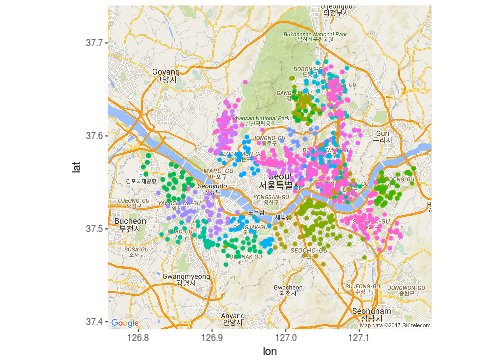
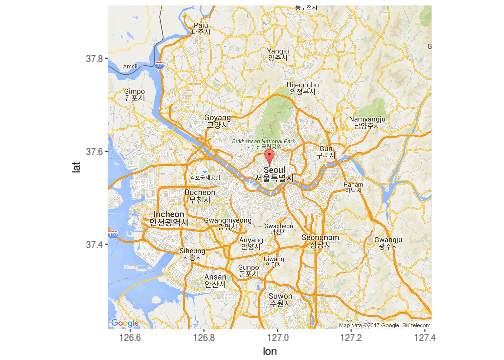
과제 끝
그림 넣어 줘야 함.

diff --git a/notegen/class6.html b/notegen/class6.html
@@ -23,18 +23,21 @@ class: center, middle, inverse, title-slide
 목차
 
 1. 과제 확인
-    - kmeans
-    - 회귀분석
-    - 연관분석
-    
+
 1. ggplot2
-    - + 연산자
     - 그림을 그리는 구조
-    - 요소별 
-        - geom
-        - 
-        
+    - gapminder
+    - layer 다루기
+    - 저장하기
+    - 실습
+
+1. 한국 지도 그리기
+    - 좌표계와 지도 데이터
+    - ggmap으로 배경 받기
+    - kormap으로 shp 데이터 경험하기
+
 1. ggplot2+extra
+1. 과제
 ---
 
 ## 과제 확인
@@ -381,7 +384,7 @@ p_point + geom_smooth(lwd = 2, se = FALSE, method = "lm")
 ![](class6_files/figure-html/unnamed-chunk-17-1.png)&lt;!-- --&gt;
 ]
 ---
-## 색정보를 전체에 반형하기
+## 색정보를 전체에 반영하기
 
 layer를 추가할 때 작성한 mapping 정보는 이후에 더해지는 layer에는 반영되지 않습니다. 그렇기 때문에 공통으로 사용하는 mapping 정보는 최초 `ggplot` 객체 생성시 `aes()` 함수로 반영해야 합니다.
 
@@ -543,7 +546,36 @@ class: center, middle
 
 [ggmap](https://www.nceas.ucsb.edu/~frazier/RSpatialGuides/ggmap/ggmapCheatsheet.pdf)은 구글 지도를 배경으로 ggplot을 사용할 수 있게 해주는 패키지로 내부적으로 모두 ggplot의 함수를 사용해서 문법이 호환됩니다.
 
+![](class6_files/figure-html/unnamed-chunk-27-1.png)&lt;!-- --&gt;
+
+---
+
+## geocoding
+
+[geocoding](http://lumiamitie.github.io/r/geocoding-with-r/) 이란 글자로 이루어져있는 주소를 위경도로 바꾸는 것을 뜻합니다. 반대로 반대로 위경도로 구성된 위치정보를 그 위치의 대표값(주소, 건물 이름 등)으로 바꾸는 것도 가능합니다.
+
+`ggmap`은 `geocode()` 함수를 제공하고 있습니다.
+
+
+
+--
+
+```
+geocode(location, output = "latlon", source = "google")
+```
+
+- location : 주소나 건물 이름에 해당하는 변환하고자 하는 값입니다.
+- output  : "latlon", "latlona", "more", "all"의 4가지 옵션이 있으며 뒤로 갈수록 정보가 상세합니다.
+- source : 구글의 공개된 API를 사용한다는 뜻으로 대량으로 사용하기 위해서는 api-key를 등록해야 하거나 돈을 지불해야 할 수 있습니다.
+
+---
+
+## ggmap으로 ggplot 객체로 만들기
+
 .pull-left[
+
+`get_googlemap()` 함수는 google 지도를 `ggmap 객체`로 가져오는 함수입니다. 그래서 추가적으로 `ggmap()`함수를 이용해서 `ggplot 객체`로 변환해야 합니다. windows는 인코딩 문제가 있어서 `URLencode(enc2utf8("장소"))`의 형태로 사용해야 합니다.
+
 
 ```r
 if (!require("ggmap"))
@@ -561,12 +593,11 @@ geocityhall&lt;-geocode(tar)
 .pull-right[
 
 ```r
-get_googlemap(loc,maptype = "roadmap",markers = geocityhall) %&gt;% ggmap()
+(ggch &lt;- get_googlemap(loc,maptype = "roadmap",markers = geocityhall) %&gt;% ggmap())
 ```
 
-![](class6_files/figure-html/unnamed-chunk-28-1.png)&lt;!-- --&gt;
+![](class6_files/figure-html/unnamed-chunk-29-1.png)&lt;!-- --&gt;
 ]
-
 ---
 
 ## 실습 3
@@ -583,7 +614,7 @@ get_googlemap(loc, maptype = "roadmap") %&gt;%
 ]
 
 .pull-right[
-![](class6_files/figure-html/unnamed-chunk-29-1.png)&lt;!-- --&gt;
+![](class6_files/figure-html/unnamed-chunk-30-1.png)&lt;!-- --&gt;
 ]
 
 ---
@@ -637,7 +668,7 @@ p2_aaas = p2 + scale_fill_aaas()
 grid.arrange(p1_aaas, p2_aaas, ncol = 2)
 ```
 
-![](class6_files/figure-html/unnamed-chunk-31-1.png)&lt;!-- --&gt;
+![](class6_files/figure-html/unnamed-chunk-32-1.png)&lt;!-- --&gt;
 
 ---
 
@@ -663,7 +694,7 @@ p2_th2&lt;-p2 + theme_hc(bgcolor = "darkunica") +
 grid.arrange(p1_th1, p2_th2, ncol = 2)
 ```
 
-![](class6_files/figure-html/unnamed-chunk-33-1.png)&lt;!-- --&gt;
+![](class6_files/figure-html/unnamed-chunk-34-1.png)&lt;!-- --&gt;
 ]
 ---
 
@@ -689,7 +720,7 @@ ggplot(mtcars) +
   theme_classic(base_size = 16)
 ```
 
-![](class6_files/figure-html/unnamed-chunk-35-1.png)&lt;!-- --&gt;
+![](class6_files/figure-html/unnamed-chunk-36-1.png)&lt;!-- --&gt;
 ]
 .pull-right[
 
@@ -700,7 +731,7 @@ ggplot(mtcars) +
   theme_classic(base_size = 16)
 ```
 
-![](class6_files/figure-html/unnamed-chunk-36-1.png)&lt;!-- --&gt;
+![](class6_files/figure-html/unnamed-chunk-37-1.png)&lt;!-- --&gt;
 ]
 
 ---
@@ -742,6 +773,33 @@ ggedit(p)
 ---
 
 ## 과제
+
+.pull-left[
+1. "./recomen" 폴더에 있는 데이터를 사용해 주세요.
+    - "chennel.csv"를 사용해서 x축은 `chennel`, y축은 각 체널별 사용량의 합으로 bar 차트를 그려주세요.
+    - "competitor.csv"를 사용해서 x축은 `useDate`, y축은 그 달의 데이터 수로 line 차트를 그려주세요
+    - 위와 같은 조건에서 `partner` 별로 라인과 색을 구분해서 그려주세요.
+    - 축 데이터가 날짜인 경우 `scale_x_date()` 함수를 참고하세요.
+1. `ggfortify` 패키지와 과제 5에서 진행한 회귀분석을 사용해 주세요.
+    - [링크](https://cran.r-project.org/web/packages/ggfortify/vignettes/plot_lm.html)를 참고해서 `fit` 객체를 시각화해주세요. 링크의 2번째 그림을 따라하면 됩니다.
+]
+.pull-right[
+
+]
+
+---
+
+## 과제 계속
+.pull-left[
+1. "./data/wifi.csv" 데이터를 사용해주세요.
+    - 서울중 각 구에 wifi가 몇개 잇는지 세고 각 구 이름으로 geocoding한 위치에 갯수를 size로 하는 버블 차트를 그려주세요.
+    - 시도를 기준으로 위와 같은 버블 차트를 그려주세요.
+    - 시도를 기준으로 wifi의 수가 기간에 따라 얼마나 늘어났는지 확인할 수 있는 라인 차트를 그려주세요.
+    - `서비스제공사명`을 기준으로 통신 3사가 아닌 제공사는 기타로 처리하고, 여러 개로 작성된 것은 각 개수 만큼 분리하여 독립 wifi로 처리하여 위의 차트를 `서비스제공사명`으로 그룹지어서 그려주세요. 총 4개 차트가 함께 나오면 됩니다.
+]
+.pull-right[
+
+]
     </textarea>
 <script src="https://remarkjs.com/downloads/remark-latest.min.js"></script>
 <script>var slideshow = remark.create({
